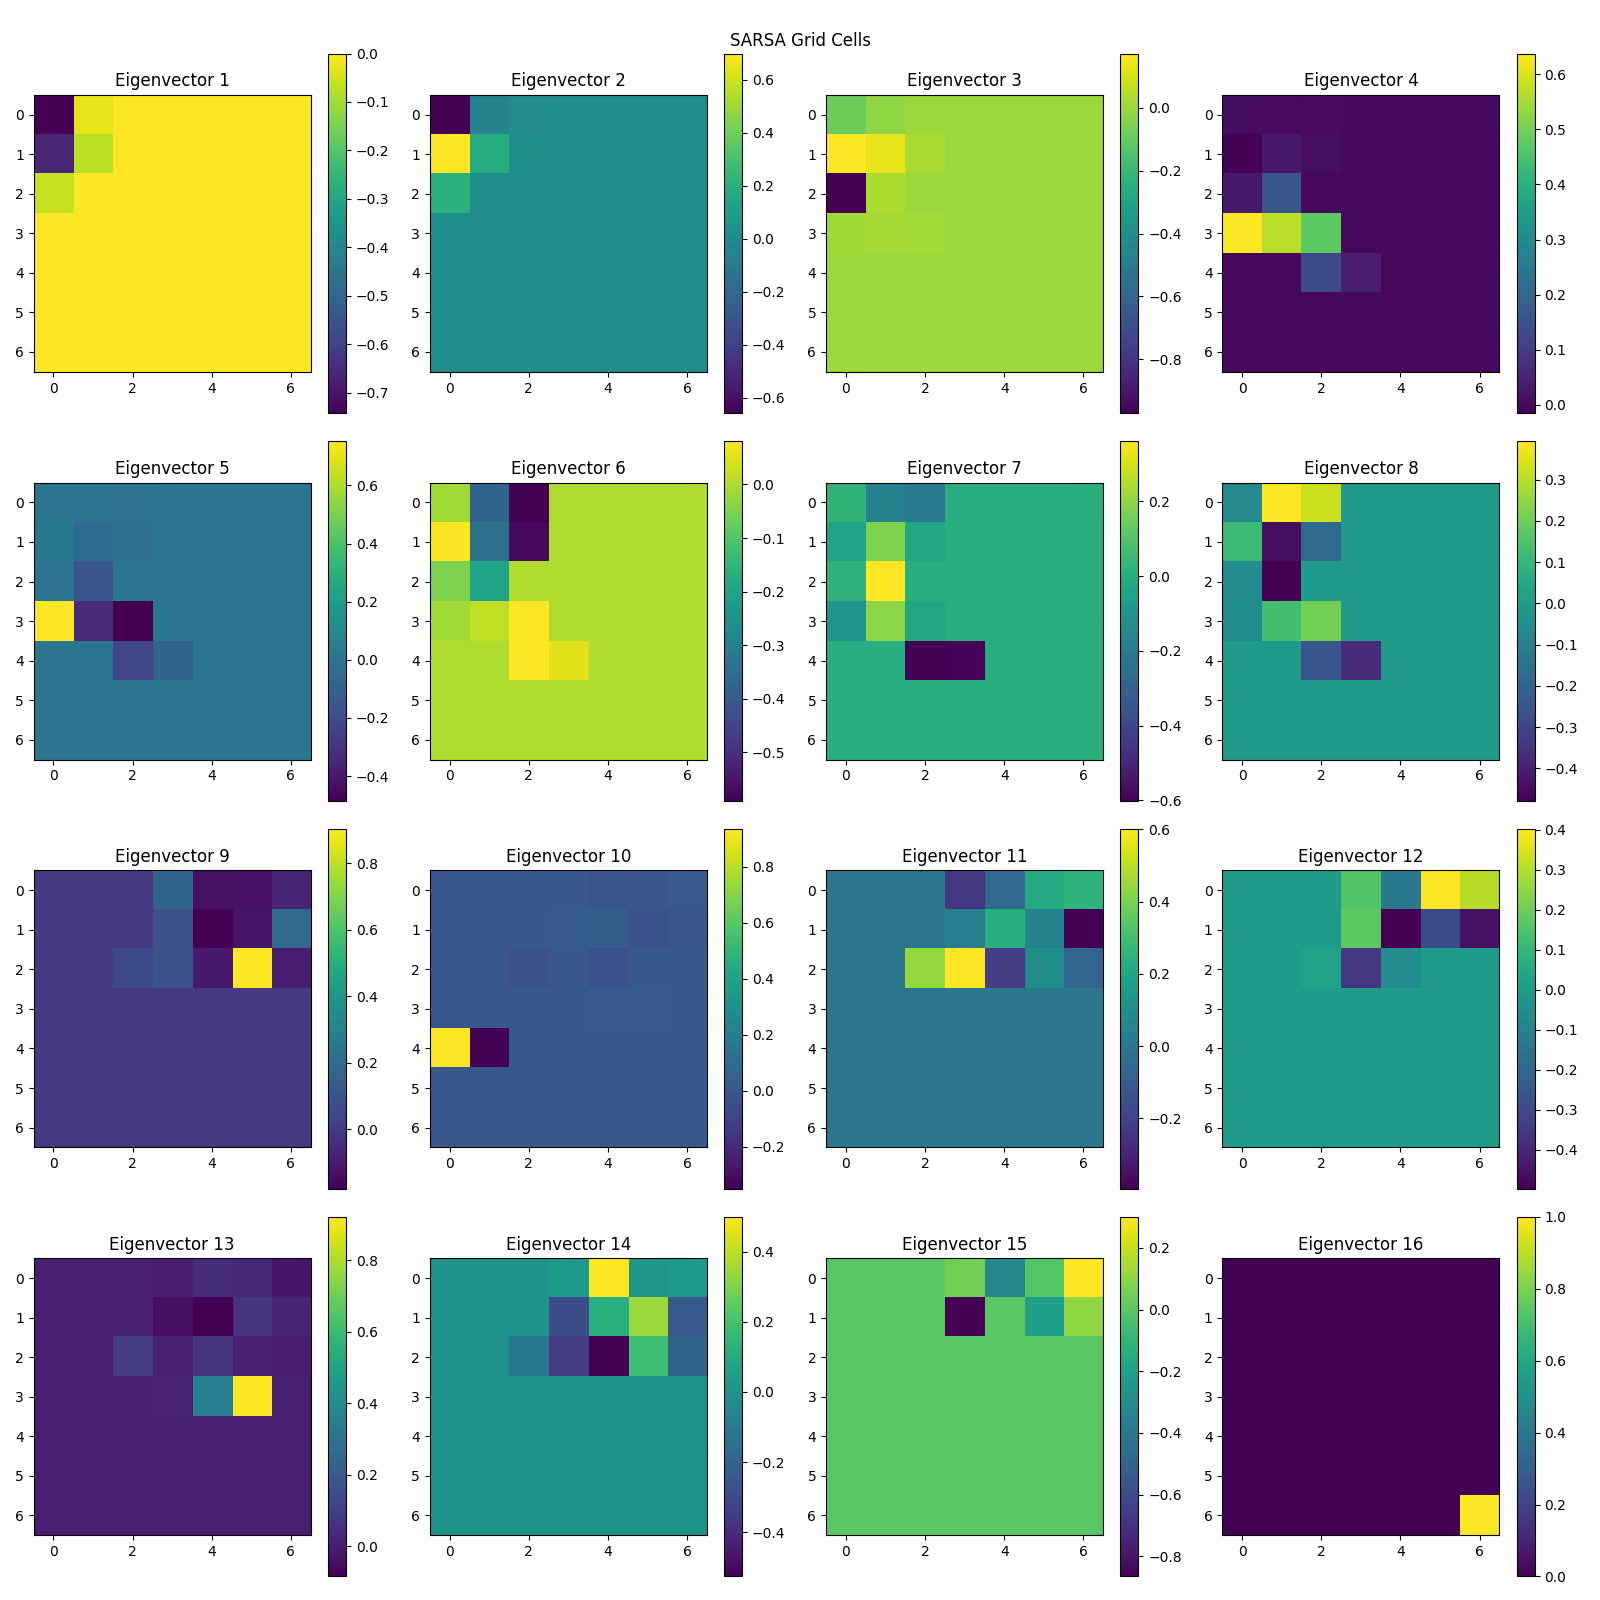
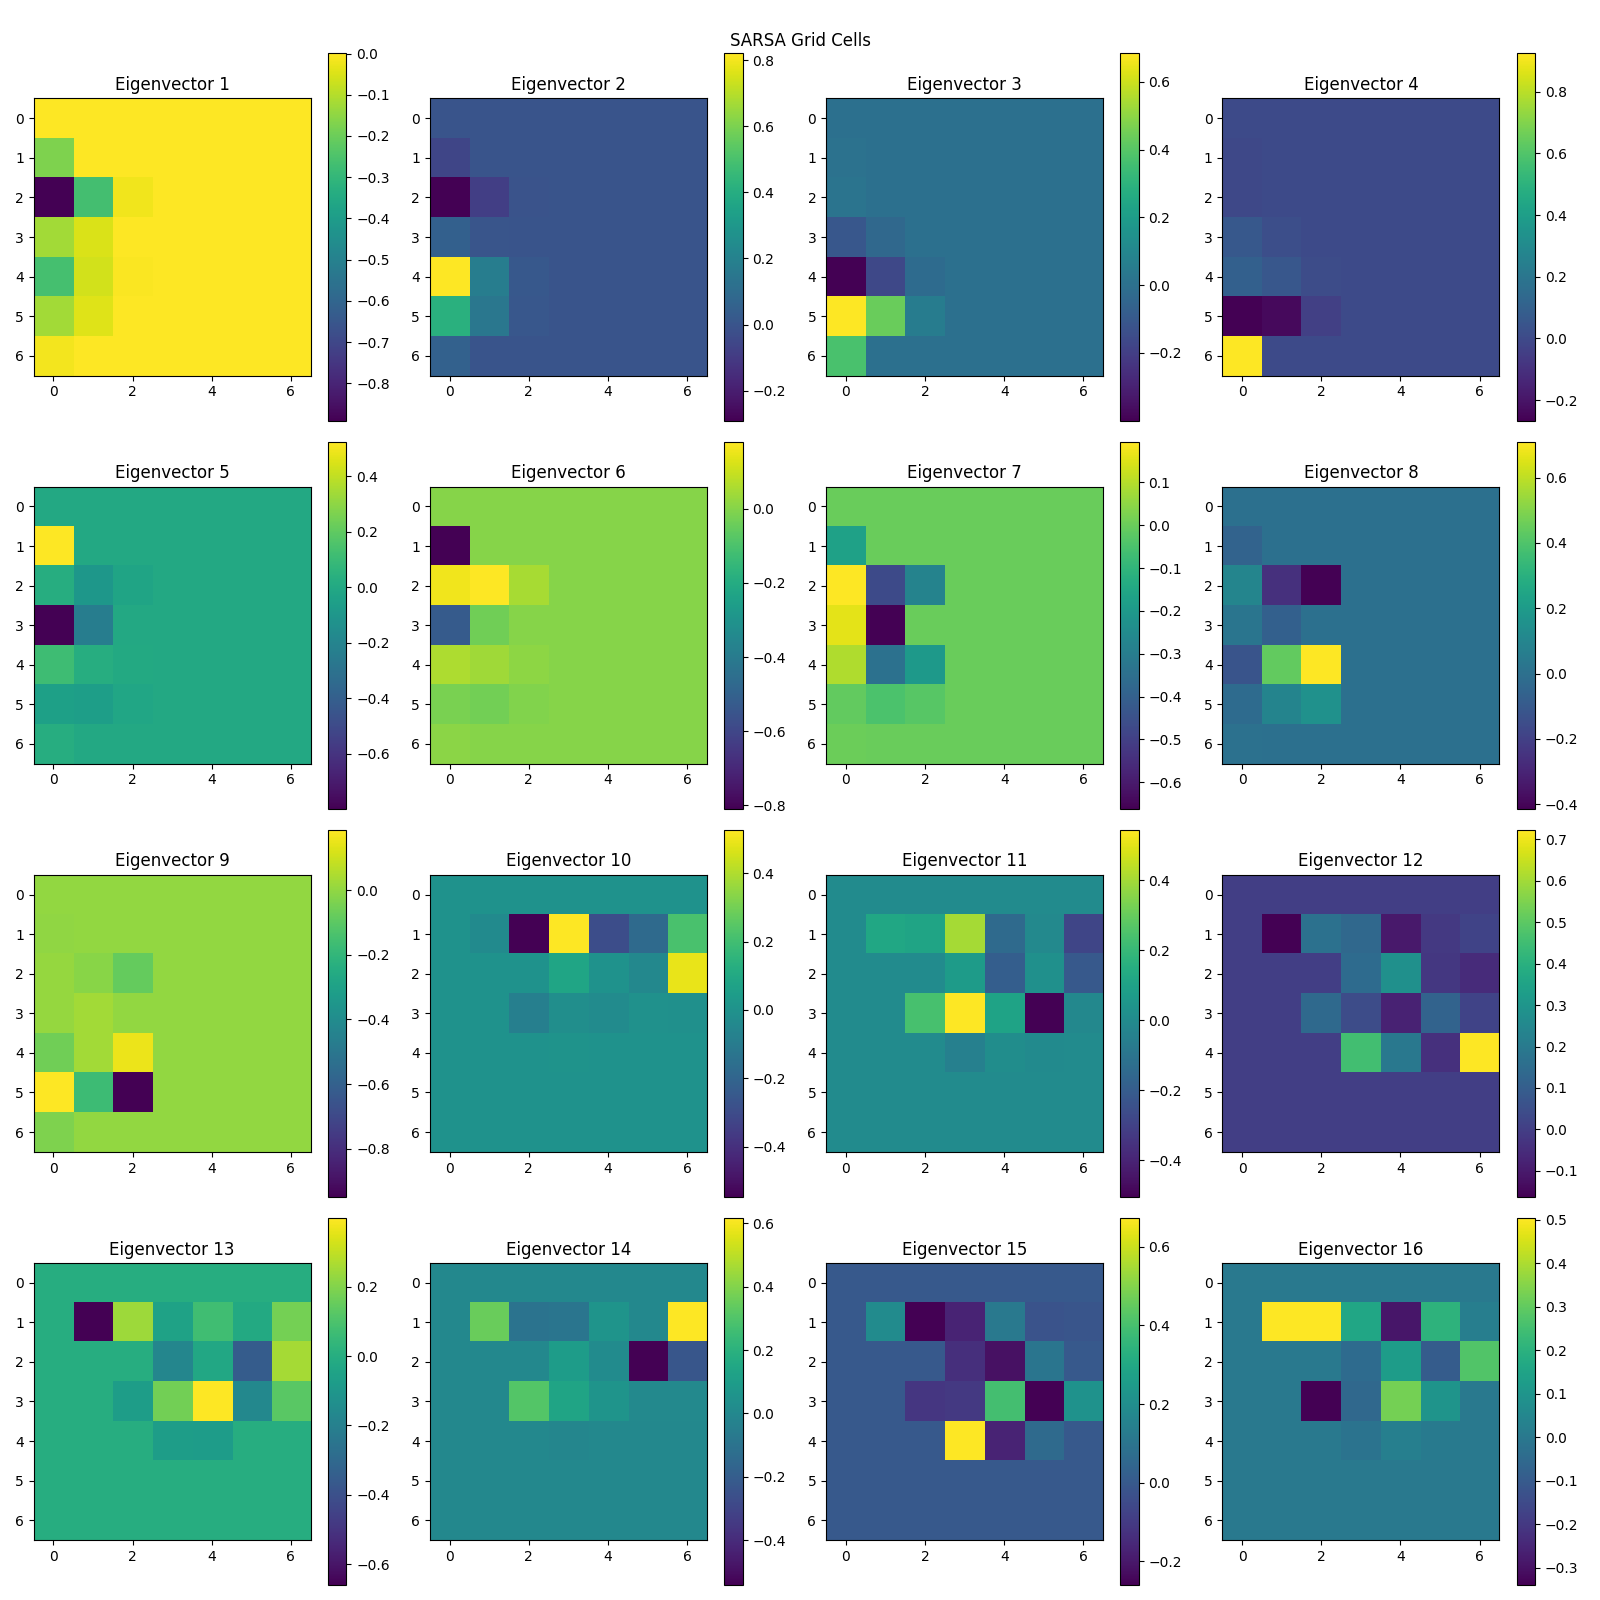
i think it works

diff --git a/SRGoalSlice.py b/SRGoalSlice.py
@@ -436,24 +436,15 @@ def get_goal_sequence(total_episodes, goal_size):
     return goal_sequence
 
 def calculate_rate_map(experiences, env):
-    # Initialize an empty grid to store visit frequencies
     occupancy_grid = np.zeros([env.grid_size, env.grid_size])
-    
-    # Loop over all experiences to count state visits
     for experience in experiences:
-        occupancy_grid += env.state_to_grid(experience[0])
-    
-    # Normalize to get the rate map (visits per state)
-    rate_map = occupancy_grid / np.max(occupancy_grid)
-    
-    # Mask the grid to ignore blocks (if any)
-    rate_map = utils.mask_grid(rate_map, env.blocks)
-    
-    return rate_map
+        occupancy_grid[tuple(env.state_to_point(experience[0]))] += 1
+    rate_map = occupancy_grid / (np.sum(occupancy_grid) + 1e-10)  # Add small epsilon to avoid division by zero
+    return utils.mask_grid(rate_map, env.blocks)
 
 
 def run_sarsa(train_episode_length,test_episode_length,episodes,gamma,lr,initial_train_epsilon,epsilon_decay,test_epsilon,goal_size):
-    
+
     # ---------------------------Intermediate Setup --------------------------------
     # Initialize the SARSA agent
     SARSAagent = SARSATabularSuccessorAgent(env.state_size, env.action_size, lr, gamma)
@@ -534,35 +525,35 @@ def run_sarsa(train_episode_length,test_episode_length,episodes,gamma,lr,initial
                 break
         SARSA_test_lengths.append(j)
         
-        nbins = 50  # value for number of bins
-        scorer = GridScorer(nbins)
+    nbins = 50  # value for number of bins
+    scorer = GridScorer(nbins)
 
-        # Get grid scores and spatial autocorrelation (SAC)
-        sac, grid_props  = scorer.get_scores(SARSA_rate_map)
+    # Get grid scores and spatial autocorrelation (SAC)
+    sac, grid_props  = scorer.get_scores(SARSA_rate_map)
 
-        # SAC
-        # scorer.plot_sac(sac, title="SARSA Spatial Autocorrelogram", score="Grid Score: {}".format(sac))
-        # plt.show()
+    # SAC
+    # scorer.plot_sac(sac, title="SARSA Spatial Autocorrelogram", score="Grid Score: {}".format(sac))
+    # plt.show()
 
-        # Grid-score
-        grid_score = grid_props['gridscore']
-        # scorer.plot_grid_score(sac)
-        # plt.show()
+    # Grid-score
+    grid_score = grid_props['gridscore']
+    # scorer.plot_grid_score(sac)
+    # plt.show()
 
-        print("SARSA Grid Score: ", grid_score)
+    print("SARSA Grid Score: ", grid_score)
 
-        # scorer.plot_sac(sac)
-        # scorer.plot_grid_score(stGrd) dont know the plot for this
-        # Print these values
-        # print("Spatial Autocorrelation:", sac)
-        # print("Grid Cell Properties:", stGrd)
+    # scorer.plot_sac(sac)
+    # scorer.plot_grid_score(stGrd) dont know the plot for this
+    # Print these values
+    # print("Spatial Autocorrelation:", sac)
+    # print("Grid Cell Properties:", stGrd)
 
-        # After SARSA policy training
-        plot_grid_cells(SARSAagent, env, "SARSA Grid Cells", num_grid_cells = 16)
-        plot_value_functions(SARSAagent, env, "SARSA Value Functions")
-        plot_raw_sr(SARSAagent.M, env, "SARSA SR Matrix")
+    # After SARSA policy training
+    plot_grid_cells(SARSAagent, env, "SARSA Grid Cells", num_grid_cells = 16)
+    plot_value_functions(SARSAagent, env, "SARSA Value Functions")
+    plot_raw_sr(SARSAagent.M, env, "SARSA SR Matrix")
 
-        return grid_score
+    return grid_score
 
 
 # #  --------------------Random Policy Training Loop --------------------
